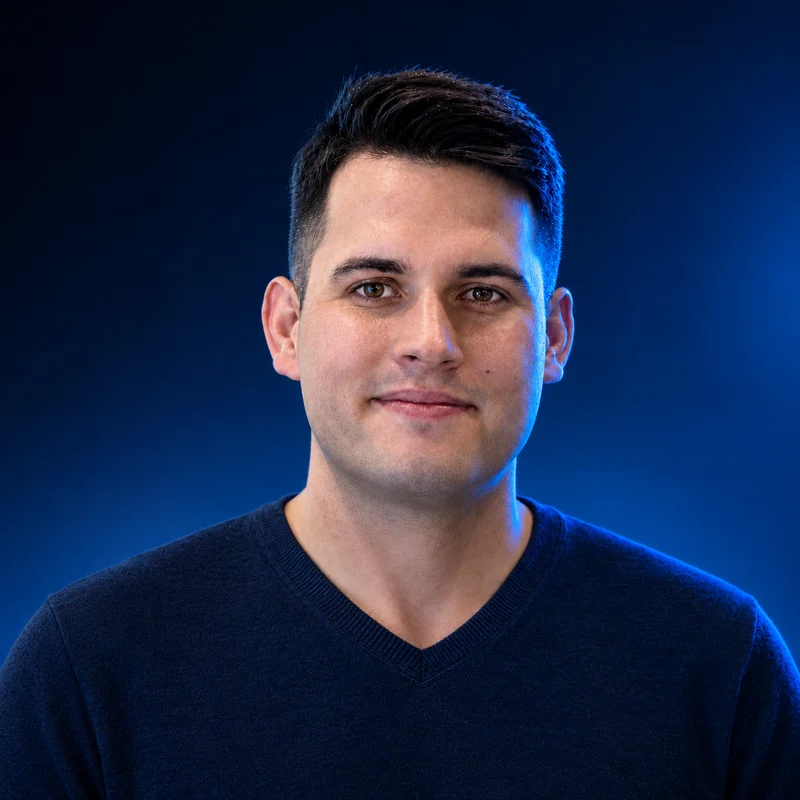
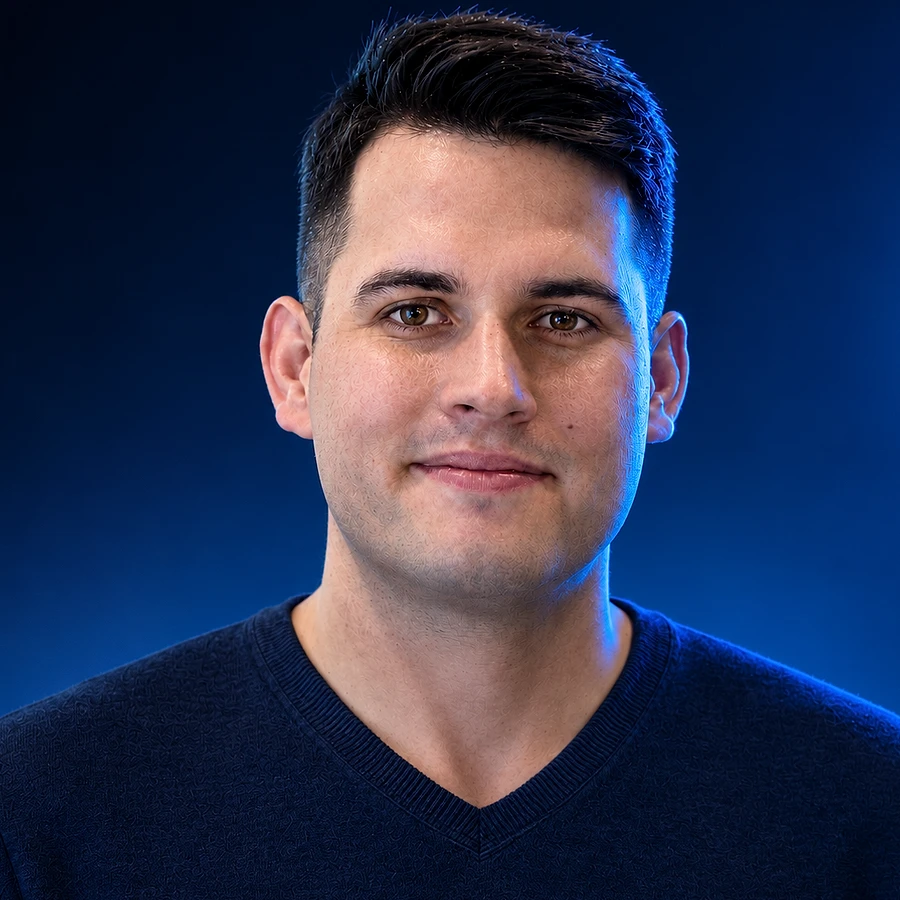
Crop the portrait in the file instead of scaling it on screen
The CSS zoom enlarged a texture rasterised at layout size, which blurred the
photo. The crop now lives in portrait.webp (the face region of the original
at 900×900), the intro disc, avatar and preview render it unscaled, and the
image URLs carry a new version so caches refresh.

diff --git a/src/app/globals.css b/src/app/globals.css
@@ -634,15 +634,14 @@ main:has(.chat-shell) ~ .motion-control .motion-label {
   box-shadow: 0 30px 80px #0009, inset 0 0 0 1px #ffffff14;
   transform: rotateY(var(--pointer-x, 0deg)) rotateX(var(--pointer-y, 0deg));
 }
-/* The profile photo carries headroom; the disc zooms in so the face fills it. */
+/* The file is already cropped to the face: no transform scaling, which would
+   enlarge a rasterised texture and blur it. */
 .portrait-img {
   display: block;
   width: 100%;
   height: 100%;
   object-fit: cover;
-  object-position: 50% 42%;
-  transform: scale(1.18);
-  transform-origin: 50% 44%;
+  object-position: 50% 50%;
   filter: saturate(0.95) contrast(1.02);
 }
 .portrait-badge {
@@ -827,7 +826,7 @@ main:has(.chat-shell) ~ .motion-control .motion-label {
   border: 1px solid var(--color-line-strong);
   background: var(--color-surface-2);
 }
-.msg-avatar img { display: block; width: 100%; height: 100%; object-fit: cover; object-position: 50% 42%; transform: scale(1.18); transform-origin: 50% 44%; }
+.msg-avatar img { display: block; width: 100%; height: 100%; object-fit: cover; object-position: 50% 50%; }
 .msg-avatar-gap { border: 0; background: transparent; }
 
 .bubble {

diff --git a/src/chat/intro.tsx b/src/chat/intro.tsx
@@ -91,8 +91,8 @@ export function Intro() {
             <img
               src={images.portrait}
               alt={site.name}
-              width={800}
-              height={800}
+              width={900}
+              height={900}
               fetchPriority="high"
               className="portrait-img"
             />

diff --git a/src/content/hero.ts b/src/content/hero.ts
@@ -12,8 +12,8 @@
  * defeats the browser cache and the social-preview caches, which key on the URL.
  */
 export const images = {
-  portrait: "/portrait.webp?v=20261029b",
-  og: "/og.png?v=20261029b",
+  portrait: "/portrait.webp?v=20261029c",
+  og: "/og.png?v=20261029c",
 } as const;
 
 export const hero = {

diff --git a/scripts/og-image.py b/scripts/og-image.py
@@ -72,11 +72,8 @@ def main() -> None:
     ring = Image.new("RGBA", (size + 16, size + 16), (0, 0, 0, 0))
     ImageDraw.Draw(ring).ellipse((0, 0, size + 15, size + 15), fill=SKY + (255,))
     img.alpha_composite(ring, (cx - size // 2 - 8, cy - size // 2 - 8))
-    source = Image.open(ROOT / "public/portrait.webp").convert("RGB")
-    # The photo carries headroom; crop to the central 82%, a little above centre.
-    side = int(source.width * 0.82)
-    left, top = (source.width - side) // 2, int((source.height - side) * 0.42)
-    photo = source.crop((left, top, left + side, top + side)).resize((size, size), Image.LANCZOS)
+    # portrait.webp is already cropped to the face.
+    photo = Image.open(ROOT / "public/portrait.webp").convert("RGB").resize((size, size), Image.LANCZOS)
     mask = Image.new("L", (size * 4, size * 4), 0)
     ImageDraw.Draw(mask).ellipse((0, 0, size * 4 - 1, size * 4 - 1), fill=255)
     mask = mask.resize((size, size), Image.LANCZOS)

diff --git a/README.md b/README.md
@@ -160,7 +160,7 @@ deploy over a third-party API.
 optimisation or generation runtime, so the OG image is a static 1200×630 PNG by
 necessity; `python scripts/og-image.py` regenerates it on the site's theme from
 the portrait and the content modules (Pillow, Windows system fonts).
-`public/portrait.webp` is the LinkedIn profile photo, 800×800 from the 1254×1254 original. `public/favicon.svg` is the vector form of the same mark.
+`public/portrait.webp` is the LinkedIn profile photo, cropped to the face and resized to 900×900 from the 1254×1254 original (the crop lives in the file, not in CSS, so nothing is scaled up on screen). `public/favicon.svg` is the vector form of the same mark.
 
 There is deliberately no `src/app/favicon.ico`: Next emits that convention file
 ahead of the explicit `metadata.icons` list, so a leftover one silently wins the
